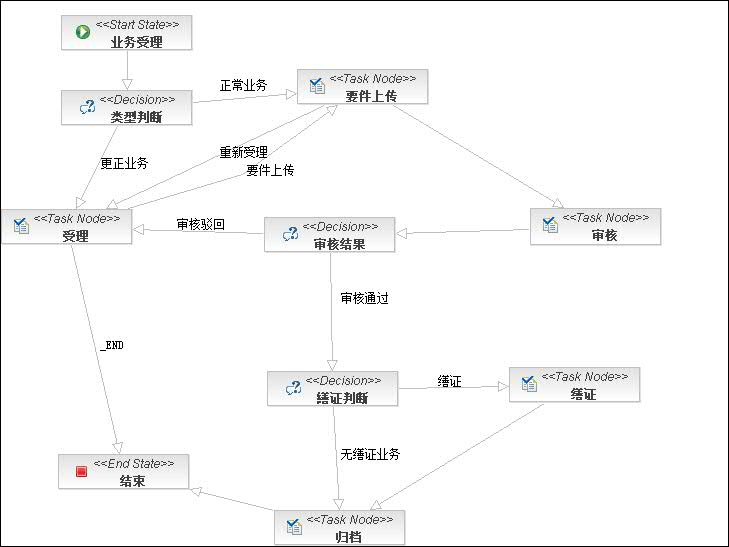
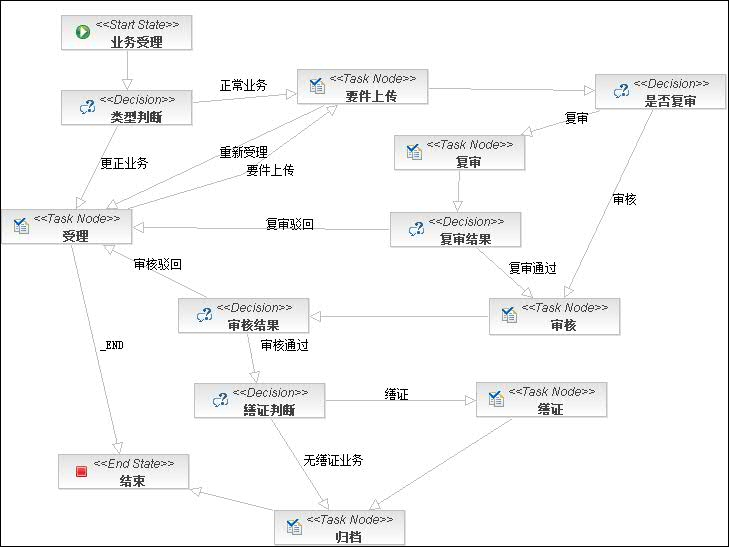
wxy

diff --git a/src/main/java/com/dgsoft/house/owner/business/subscribe/complete/AddSceondCheckEmp.java b/src/main/java/com/dgsoft/house/owner/business/subscribe/complete/AddSceondCheckEmp.java
@@ -1,0 +1,60 @@
+package com.dgsoft.house.owner.business.subscribe.complete;
+
+import com.dgsoft.common.system.AuthenticationInfo;
+import com.dgsoft.common.system.business.TaskCompleteSubscribeComponent;
+import com.dgsoft.house.owner.action.OwnerBusinessHome;
+import com.dgsoft.house.owner.model.BusinessEmp;
+import org.jboss.seam.ScopeType;
+import org.jboss.seam.annotations.In;
+import org.jboss.seam.annotations.Name;
+
+import java.util.Date;
+
+/**
+ * Created by wxy on 2017-08-30.
+ */
+@Name("addSceondCheckEmp")
+public class AddSceondCheckEmp implements TaskCompleteSubscribeComponent {
+
+
+    @In
+    private OwnerBusinessHome ownerBusinessHome;
+
+    @In
+    private AuthenticationInfo authInfo;
+
+    @In(required = false,scope = ScopeType.BUSINESS_PROCESS)
+    private String transitionComments;
+
+    @Override
+    public void valid() {
+
+    }
+
+    @Override
+    public boolean isPass() {
+        return true;
+    }
+
+    @Override
+    public void complete() {
+
+        for (BusinessEmp businessEmp:ownerBusinessHome.getInstance().getBusinessEmps()){
+            if (businessEmp.getType().equals(BusinessEmp.EmpType.SECOND_CHECK)){
+                ownerBusinessHome.getInstance().getBusinessEmps().remove(businessEmp);
+                break;
+            }
+
+
+        }
+        BusinessEmp businessEmp = new BusinessEmp(BusinessEmp.EmpType.SECOND_CHECK);
+        businessEmp.setEmpName(authInfo.getLoginEmployee().getPersonName());
+        businessEmp.setEmpCode(authInfo.getLoginEmployee().getId());
+        businessEmp.setOperDate(new Date());
+        businessEmp.setComments(transitionComments);
+        businessEmp.setOwnerBusiness(ownerBusinessHome.getInstance());
+        ownerBusinessHome.getInstance().setCheckTime(businessEmp.getOperDate());
+        ownerBusinessHome.getInstance().getBusinessEmps().add(businessEmp);
+
+    }
+}

diff --git a/src/main/java/com/dgsoft/house/owner/model/BusinessEmp.java b/src/main/java/com/dgsoft/house/owner/model/BusinessEmp.java
@@ -16,7 +16,7 @@ import java.util.Date;
 public class BusinessEmp implements java.io.Serializable {
 
     public enum EmpType{
-        CREATE_EMP, APPLY_EMP, CHECK_EMP,FIRST_CHECK,REG_EMP, CARD_PRINTER, PATCH_EMP,RECORD_EMP,MONEY_EMP,GIVE_EMP,LAST_CHECK_EMP,QUALITY_CHECK_EMP
+        CREATE_EMP, APPLY_EMP, CHECK_EMP,FIRST_CHECK,SECOND_CHECK,REG_EMP, CARD_PRINTER, PATCH_EMP,RECORD_EMP,MONEY_EMP,GIVE_EMP,LAST_CHECK_EMP,QUALITY_CHECK_EMP
     }
 
 	private String id;
